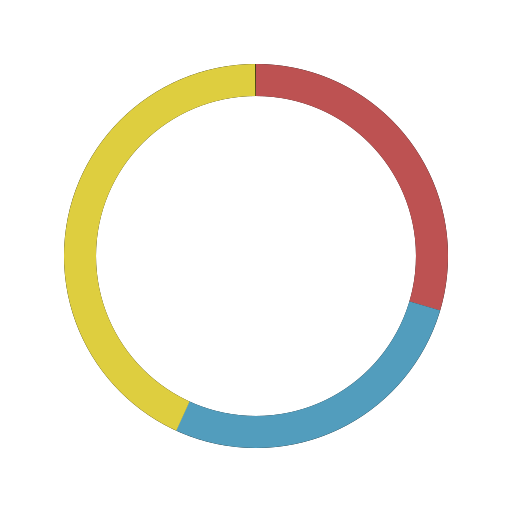
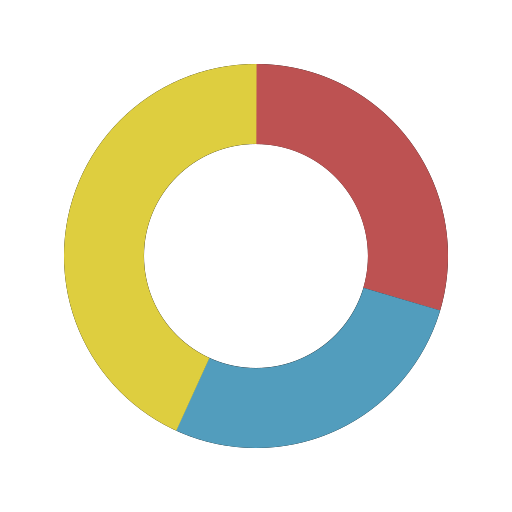
Deploying to gh-pages from @ Shresht7/Languages@cc778ebad2977a76cbf78eacf2a861cded7b94c6 🚀

Changed region(s): [[0.1875, 0.1875, 0.8125, 0.8125]]

diff --git a/assets/index.dca843ab.js b/assets/index.dca843ab.js
@@ -1,0 +1,1 @@
+var De=Object.defineProperty;var oe=Object.getOwnPropertySymbols;var Ee=Object.prototype.hasOwnProperty,Re=Object.prototype.propertyIsEnumerable;var se=(n,e,t)=>e in n?De(n,e,{enumerable:!0,configurable:!0,writable:!0,value:t}):n[e]=t,z=(n,e)=>{for(var t in e||(e={}))Ee.call(e,t)&&se(n,t,e[t]);if(oe)for(var t of oe(e))Re.call(e,t)&&se(n,t,e[t]);return n};import{S as P,i as M,s as D,c as pe,a as Y,e as _,b as ce,t as w,d as B,l as v,u as me,g as he,f as be,h as Te,j as m,k as S,m as F,n as ae,o as Se,p as d,q as R,w as _e,r as C,v as A,x as y,y as U,z as $e,A as Le,B as Ce,I as we,C as Ge,D as $,E as b,F as G,G as re,H as Oe,J as Ae,K as ye,L as te,M as Be,N as Ne,O as x,P as Fe,Q as W,R as K,T as V,U as Q,V as X,W as Ie}from"./vendor.5a57d869.js";const He=function(){const e=document.createElement("link").relList;if(e&&e.supports&&e.supports("modulepreload"))return;for(const s of document.querySelectorAll('link[rel="modulepreload"]'))o(s);new MutationObserver(s=>{for(const c of s)if(c.type==="childList")for(const a of c.addedNodes)a.tagName==="LINK"&&a.rel==="modulepreload"&&o(a)}).observe(document,{childList:!0,subtree:!0});function t(s){const c={};return s.integrity&&(c.integrity=s.integrity),s.referrerpolicy&&(c.referrerPolicy=s.referrerpolicy),s.crossorigin==="use-credentials"?c.credentials="include":s.crossorigin==="anonymous"?c.credentials="omit":c.credentials="same-origin",c}function o(s){if(s.ep)return;s.ep=!0;const c=t(s);fetch(s.href,c)}};He();function Je(n){let e,t,o,s;const c=n[2].default,a=pe(c,n,n[1],null);let l=[n[0]],r={};for(let i=0;i<l.length;i+=1)r=Y(r,l[i]);return{c(){e=_("button"),a&&a.c(),ce(e,r),w(e,"svelte-4190dx",!0)},m(i,f){B(i,e,f),a&&a.m(e,null),e.autofocus&&e.focus(),t=!0,o||(s=v(e,"click",n[3]),o=!0)},p(i,[f]){a&&a.p&&(!t||f&2)&&me(a,c,i,i[1],t?be(c,i[1],f,null):he(i[1]),null),ce(e,r=Te(l,[f&1&&i[0]])),w(e,"svelte-4190dx",!0)},i(i){t||(m(a,i),t=!0)},o(i){S(a,i),t=!1},d(i){i&&F(e),a&&a.d(i),o=!1,s()}}}function Ve(n,e,t){let{$$slots:o={},$$scope:s}=e;function c(a){Se.call(this,n,a)}return n.$$set=a=>{t(0,e=Y(Y({},e),ae(a))),"$$scope"in a&&t(1,s=a.$$scope)},e=ae(e),[e,s,o,c]}class ke extends P{constructor(e){super();M(this,e,Ve,Je,D,{})}}function Qe(n){let e,t;const o=n[3].default,s=pe(o,n,n[2],null);return{c(){e=_("div"),s&&s.c(),d(e,"class","svelte-pfjui3"),R(e,"width",n[0],!1),R(e,"height",n[0],!1),R(e,"color",n[1],!1)},m(c,a){B(c,e,a),s&&s.m(e,null),t=!0},p(c,[a]){s&&s.p&&(!t||a&4)&&me(s,o,c,c[2],t?be(o,c[2],a,null):he(c[2]),null),a&1&&R(e,"width",c[0],!1),a&1&&R(e,"height",c[0],!1),a&2&&R(e,"color",c[1],!1)},i(c){t||(m(s,c),t=!0)},o(c){S(s,c),t=!1},d(c){c&&F(e),s&&s.d(c)}}}function Xe(n,e,t){let{$$slots:o={},$$scope:s}=e,{size:c="1.5rem"}=e,{color:a=void 0}=e;return n.$$set=l=>{"size"in l&&t(0,c=l.size),"color"in l&&t(1,a=l.color),"$$scope"in l&&t(2,s=l.$$scope)},[c,a,s,o]}class ne extends P{constructor(e){super();M(this,e,Xe,Qe,D,{size:0,color:1})}}var H={"--clr-backdrop-light":"rgb(224, 224, 224)","--clr-backdrop-dark":"rgb(24, 24, 24)","--clr-background":"#F3F3F3","--clr-text":"#373737"};const Z={light:{backdrop:H["--clr-backdrop-light"],background:H["--clr-background"],text:H["--clr-text"]},dark:{backdrop:H["--clr-backdrop-dark"],background:H["--clr-text"],text:H["--clr-background"]}},je="#E8274B",We="#34EB6B",qe="#3AA2B5",Ue="#E6EFBB",ze="#9DC3FF",Ke="#5A8164",Ze="#1ac620",Ye="#882B0F",xe="#02f88c",et="#315665",tt="#64C800",nt="#C7D7DC",ot="#d12127",st="#1797c0",ct="#101F1F",at="#aa2afe",rt="#73a0c5",lt="#a957b0",it="#6E4C13",ft="#ff5a03",ut="#ff0000",dt="#9CC134",gt="#6594b9",pt="#1C3552",mt="#c30e9b",ht="#ff0000",bt="#FF5000",St="#C1F12E",_t="#a52f4e",Lt="#778899",Ct="#519aba",At="#6A463F",yt="#00bce4",Bt="#f7523f",Ft="#00FFAE",kt="#cd6400",vt="#12223c",Pt="#d4bec1",Mt="#c80fa0",Dt="#2F2530",Et="#662D91",Rt="#ffd539",Tt="#555555",$t="#00A300",wt="#DA3434",Gt="#F1A42B",Ot="#244776",Nt="#563d7c",It="#237346",Ht="#5886E1",Jt="#00007a",Vt="#ff4a48",Qt="#dfa535",Xt="#8dc63f",jt="#3f8000",Wt="#ccccff",qt="#db901e",Ut="#5546ff",zt="#3F85AF",Kt="#E4E6F3",Zt="#db5855",Yt="#140f46",xt="#244776",en="#ed2cd6",tn="#d0b68c",nn="#000100",on="#1a1a1a",sn="#3A4E3A",cn="#531242",an="#fedf5b",rn="#ba595e",ln="#447265",fn="#FFEC25",un="#00B4AB",dn="#003a52",gn="#FBEE96",pn="#dfafff",mn="#384d54",hn="#cca760",bn="#6c616e",Sn="#ccce35",_n="#8a1267",Ln="#001d9d",Cn="#a91e50",An="#a78649",yn="#2af0ff",Bn="#069406",Fn="#fff1f2",kn="#4d6977",vn="#6e4a7e",Pn="#60B5CC",Mn="#FFF4F3",Dn="#B83998",En="#FF790B",Rn="#88ccff",Tn="#636746",$n="#7b9db4",wn="#14253c",Gn="#c37240",On="#fff3d7",Nn="#ffcc33",In="#341708",Hn="#4d41b1",Jn="#867db1",Vn="#0050b2",Qn="#00cafe",Xn="#5f021f",jn="#FFC766",Wn="#f49a22",qn="#0000cc",Un="#355570",zn="#003058",Kn="#5686a5",Zn="#FF6800",Yn="#fb855d",xn="#951531",eo="#5B2063",to="#ffaff3",no="#c1ac7f",oo="#f0a9f0",so="#00ADD8",co="#88562A",ao="#82937f",ro="#615f8b",lo="#02303a",io="#e10098",fo="#4298b8",uo="#106da9",go="#aace60",po="#e34c26",mo="#005C9C",ho="#f68712",bo="#878787",So="#ece2a9",_o="#f7931e",Lo="#0e60e3",Co="#5e5086",Ao="#df7900",yo="#dce200",Bo="#ffefaf",Fo="#7790B2",ko="#a3522f",vo="#d1dbe0",Po="#b30000",Mo="#a9188d",Do="#078193",Eo="#FEFE00",Ro="#9EEDFF",To="#DBCA00",$o="#267CB9",wo="#0c479c",Go="#40d47e",Oo="#0886a5",No="#d03600",Io="#b07219",Ho="#f1e05a",Jo="#a52a22",Vo="#56b3cb",Qo="#843179",Xo="#0064bd",jo="#a270ba",Wo="#28430A",qo="#6f8042",Uo="#A97BFF",zo="#4C3023",Ko="#185619",Zo="#cc9900",Yo="#3d9970",xo="#fede06",es="#2980B9",ts="#999999",ns="#f2a542",os="#1d365d",ss="#DBCA00",cs="#9ccc7c",as="#67b8de",rs="#499886",ls="#295b9a",is="#652B81",fs="#000080",us="#e16737",ds="#00a6a6",gs="#5EC8DB",ps="#62A8D6",ms="#4A76B8",hs="#b7e1f4",bs="#d8ffff",Ss="#427819",_s="#7e858d",Ls="#083fa1",Cs="#42bff2",As="#f97732",ys="#dd1100",Bs="#c4a79c",Fs="#ff2b2b",ks="#007800",vs="#8f14e9",Ps="#ff1111",Ms="#02b046",Ds="#c7a938",Es="#de1d31",Rs="#ff4585",Ts="#fbb03b",$s="#724b3b",ws="#28431f",Gs="#111522",Os="#990000",Ns="#3d3c6e",Is="#0aa0ff",Hs="#ff6375",Js="#87AED7",Vs="#3ac486",Qs="#009639",Xs="#ffc200",js="#009917",Ws="#7e7eff",qs="#c9df40",Us="#9C8AF9",zs="#3d8137",Ks="#3be133",Zs="#424893",Ys="#60AFFE",xs="#cabbff",ec="#f7ede0",tc="#ed2e2d",nc="#AA70FF",oc="#e5cd45",sc="#77aa99",cc="#cdd0e3",ac="#fab738",rc="#7055b5",lc="#4F5D95",ic="#dad8d8",fc="#336790",uc="#cc0000",dc="#6600cc",gc="#f3ca0a",pc="#E3F171",mc="#dbb284",hc="#C76F5B",bc="#0298c3",Sc="#6067af",_c="#fcd7de",Lc="#005390",Cc="#d80074",Ac="#dc3a0c",yc="#da291c",Bc="#8f0f8d",Fc="#012456",kc="#0c344b",vc="#0096D8",Pc="#3B2F63",Mc="#74283c",Dc="#de0000",Ec="#a86454",Rc="#302B6D",Tc="#5a6986",$c="#1D222D",wc="#3572A5",Gc="#44a51c",Oc="#882233",Nc="#198CE7",Ic="#77d9fb",Hc="#701516",Jc="#d90e09",Vc="#198ce7",Qc="#2BDE21",Xc="#665a4e",jc="#3c5caa",Wc="#9d5200",qc="#0000fb",Uc="#fffaa0",zc="#ed5051",Kc="#ff5847",Zc="#358a5b",Yc="#f50000",xc="#2D54CB",ea="#A71E49",ta="#00c0b5",na="#ecdebe",oa="#cc0088",sa="#701516",ca="#dea584",aa="#B34936",ra="#c6538c",la="#0C4597",ia="#3F3F3F",fa="#e38c00",ua="#e38c00",da="#ff9900",ga="#646464",pa="#a53b70",ma="#c22d40",ha="#bd181a",ba="#1e4aec",Sa="#ca0f21",_a="#0579aa",La="#222c37",Ca="#89e051",Aa="#120F14",ya="#64E6AD",Ba="#007eff",Fa="#003fa2",ka="#2b2b2b",va="#c94949",Pa="#596706",Ma="#f0c040",Da="#AA6746",Ea="#f69e1d",Ra="#800000",Ta="#b2011d",$a="#76d275",wa="#1a5f91",Ga="#3fb34f",Oa="#ff6347",Na="#2fcc9f",Ia="#46390b",Ha="#ff3e00",Ja="#F05138",Va="#DAE1C2",Qa="#4b0079",Xa="#9c4221",ja="#e38c00",Wa="#237346",qa="#2b7489",Ua="#0178b8",za="#e4cc98",Ka="#3D6117",Za="#00004c",Ya="#ffe7ac",xa="#D12127",er="#cf142b",tr="#c1d026",nr="#2b7489",or="#9933cc",sr="#a54c4d",cr="#ccccee",ar="#4f87c4",rr="#867db1",lr="#15dcdc",ir="#148AA8",fr="#adb2cb",ur="#fbe5cd",dr="#b2b7f8",gr="#1F1F1F",pr="#41b883",mr="#2980b9",hr="#04133b",br="#fc5757",Sr="#a23738",_r="#4B6BEF",Lr="#99DA07",Cr="#0060ac",Ar="#5232e7",yr="#EB8CEB",Br="#81bd41",Fr="#285EEF",kr="#24255d",vr="#cb171e",Pr="#220000",Mr="#32AB90",Dr="#4B6C4B",Er="#0d665e",Rr="#dc75e5",Tr="#00BCD1",$r="#118f9e",wr="#ec915c",Gr="#d67711",Or="#913960",Nr="#4aae47",Ir="#00b171",Hr="#c7254e",Jr="#1da6e0",Vr="#E22837",Qr="#244963",Xr="#2d004d",jr="#94B0C7",Wr="#b0b77e",qr="#0040cd",Ur="#141414",zr="#64b970",Kr="#42f1f4",Zr="#7582D1",Yr="#403a40";var xr={"1C Enterprise":"#814CCC","2-Dimensional Array":"#38761D","4D":"#004289",ABAP:je,"ABAP CDS":"#555e25","AGS Script":"#B9D9FF",AIDL:We,AL:qe,AMPL:Ue,ANTLR:ze,"API Blueprint":"#2ACCA8",APL:Ke,"ASP.NET":"#9400ff",ATS:Ze,ActionScript:Ye,Ada:xe,"Adobe Font Metrics":"#fa0f00",Agda:et,Alloy:tt,"Alpine Abuild":"#0D597F","Altium Designer":"#A89663",AngelScript:nt,"Ant Build System":"#A9157E",ApacheConf:ot,Apex:st,"Apollo Guidance Computer":"#0B3D91",AppleScript:ct,Arc:at,AsciiDoc:rt,AspectJ:lt,Assembly:it,Astro:ft,Asymptote:ut,Augeas:dt,AutoHotkey:gt,AutoIt:pt,"Avro IDL":"#0040FF",Awk:mt,BASIC:ht,Ballerina:bt,Batchfile:St,Beef:_t,BibTeX:Lt,Bicep:Ct,Bison:At,BitBake:yt,Blade:Bt,BlitzBasic:Ft,BlitzMax:kt,Bluespec:vt,Boo:Pt,Boogie:Mt,Brainfuck:Dt,Brightscript:Et,Browserslist:Rt,C:Tt,"C#":"#178600","C++":"#f34b7d",CLIPS:$t,CMake:wt,COLLADA:Gt,CSON:Ot,CSS:Nt,CSV:It,CUE:Ht,CWeb:Jt,"Cabal Config":"#483465",Cairo:Vt,"Cap'n Proto":"#c42727",Ceylon:Qt,Chapel:Xt,ChucK:jt,Cirru:Wt,Clarion:qt,Clarity:Ut,"Classic ASP":"#6a40fd",Clean:zt,Click:Kt,Clojure:Zt,"Closure Templates":"#0d948f","Cloud Firestore Security Rules":"#FFA000",CodeQL:Yt,CoffeeScript:xt,ColdFusion:en,"ColdFusion CFC":"#ed2cd6","Common Lisp":"#3fb68b","Common Workflow Language":"#B5314C","Component Pascal":"#B0CE4E",Coq:tn,Crystal:nn,Csound:on,"Csound Document":"#1a1a1a","Csound Score":"#1a1a1a",Cuda:sn,Curry:cn,Cython:an,D:rn,DM:ln,Dafny:fn,"Darcs Patch":"#8eff23",Dart:un,DataWeave:dn,"Debian Package Control File":"#D70751",DenizenScript:gn,Dhall:pn,"DirectX 3D File":"#aace60",Dockerfile:mn,Dogescript:hn,Dylan:bn,E:Sn,ECL:_n,ECLiPSe:Ln,EJS:Cn,EQ:An,Earthly:yn,Easybuild:Bn,"Ecere Projects":"#913960",EditorConfig:Fn,Eiffel:kn,Elixir:vn,Elm:Pn,"Emacs Lisp":"#c065db",EmberScript:Mn,Erlang:Dn,Euphoria:En,"F#":"#b845fc","F*":"#572e30","FIGlet Font":"#FFDDBB",FLUX:Rn,Factor:Tn,Fancy:$n,Fantom:wn,Faust:Gn,Fennel:On,"Filebench WML":"#F6B900",Fluent:Nn,Forth:In,Fortran:Hn,"Fortran Free Form":"#4d41b1",FreeBasic:Jn,FreeMarker:Vn,Frege:Qn,Futhark:Xn,"G-code":"#D08CF2",GAML:jn,GAMS:Wn,GAP:qn,"GCC Machine Description":"#FFCFAB",GDScript:Un,GEDCOM:zn,GLSL:Kn,GSC:Zn,"Game Maker Language":"#71b417","Gemfile.lock":"#701516",Genie:Yn,Genshi:xn,"Gentoo Ebuild":"#9400ff","Gentoo Eclass":"#9400ff","Gerber Image":"#d20b00",Gherkin:eo,"Git Attributes":"#F44D27","Git Config":"#F44D27",Gleam:to,Glyph:no,Gnuplot:oo,Go:so,"Go Checksums":"#00ADD8","Go Module":"#00ADD8",Golo:co,Gosu:ao,Grace:ro,Gradle:lo,"Grammatical Framework":"#ff0000",GraphQL:io,"Graphviz (DOT)":"#2596be",Groovy:fo,"Groovy Server Pages":"#4298b8",HAProxy:uo,HLSL:go,HTML:po,"HTML+ECR":"#2e1052","HTML+EEX":"#6e4a7e","HTML+ERB":"#701516","HTML+PHP":"#4f5d95","HTML+Razor":"#512be4",HTTP:mo,HXML:ho,Hack:bo,Haml:So,Handlebars:_o,Harbour:Lo,Haskell:Co,Haxe:Ao,HiveQL:yo,HolyC:Bo,Hy:Fo,IDL:ko,"IGOR Pro":"#0000cc",INI:vo,Idris:Po,"Ignore List":"#000000","ImageJ Macro":"#99AAFF","Inno Setup":"#264b99",Io:Mo,Ioke:Do,Isabelle:Eo,"Isabelle ROOT":"#FEFE00",J:Ro,"JAR Manifest":"#b07219",JFlex:To,JSON:"#292929","JSON with Comments":"#292929",JSON5:$o,JSONLD:wo,JSONiq:Go,Janet:Oo,Jasmin:No,Java:Io,"Java Properties":"#2A6277","Java Server Pages":"#2A6277",JavaScript:Ho,"JavaScript+ERB":"#f1e05a","Jest Snapshot":"#15c213",Jinja:Jo,Jison:Vo,"Jison Lex":"#56b3cb",Jolie:Qo,Jsonnet:Xo,Julia:jo,"Jupyter Notebook":"#DA5B0B",KRL:Wo,"Kaitai Struct":"#773b37",KakouneScript:qo,"KiCad Layout":"#2f4aab","KiCad Legacy Layout":"#2f4aab","KiCad Schematic":"#2f4aab",Kotlin:Uo,LFE:zo,LLVM:Ko,LOLCODE:Zo,LSL:Yo,LabVIEW:xo,Lark:es,Lasso:ts,Latte:ns,Less:os,Lex:ss,LilyPond:cs,Liquid:as,"Literate Agda":"#315665","Literate CoffeeScript":"#244776","Literate Haskell":"#5e5086",LiveScript:rs,Logtalk:ls,LookML:is,Lua:fs,MATLAB:us,MAXScript:ds,MLIR:gs,MQL4:ps,MQL5:ms,MTML:hs,Macaulay2:bs,Makefile:Ss,Mako:_s,Markdown:Ls,Marko:Cs,Mask:As,Mathematica:ys,Max:Bs,Mercury:Fs,Meson:ks,Metal:vs,MiniYAML:Ps,Mint:Ms,Mirah:Ds,Modelica:Es,"Modula-2":"#10253f","Modula-3":"#223388",MoonScript:Rs,Motoko:Ts,"Motorola 68K Assembly":"#005daa",Mustache:$s,NCL:ws,"NPM Config":"#cb3837",NWScript:Gs,Nearley:Os,Nemerle:Ns,NetLinx:Is,"NetLinx+ERB":"#747faa",NetLogo:Hs,NewLisp:Js,Nextflow:Vs,Nginx:Qs,Nim:Xs,Nit:js,Nix:Ws,Nu:qs,NumPy:Us,Nunjucks:zs,OCaml:Ks,ObjectScript:Zs,"Objective-C":"#438eff","Objective-C++":"#6866fb","Objective-J":"#ff0c5a",Odin:Ys,Omgrofl:xs,Opal:ec,"Open Policy Agent":"#7d9199",OpenCL:tc,"OpenEdge ABL":"#5ce600",OpenQASM:nc,OpenSCAD:oc,Org:sc,Oxygene:cc,Oz:ac,P4:rc,"PEG.js":"#234d6b",PHP:lc,PLSQL:ic,PLpgSQL:fc,"POV-Ray SDL":"#6bac65",Pan:uc,Papyrus:dc,Parrot:gc,Pascal:pc,Pawn:mc,Pep8:hc,Perl:bc,PicoLisp:Sc,PigLatin:_c,Pike:Lc,PogoScript:Cc,PostCSS:Ac,PostScript:yc,PowerBuilder:Bc,PowerShell:Fc,Prisma:kc,Processing:vc,Procfile:Pc,Prolog:Mc,Promela:Dc,"Propeller Spin":"#7fa2a7",Pug:Ec,Puppet:Rc,PureBasic:Tc,PureScript:$c,Python:wc,"Python console":"#3572A5","Python traceback":"#3572A5","Q#":"#fed659",QML:Gc,"Qt Script":"#00b841",Quake:Oc,R:Nc,RAML:Ic,RDoc:Hc,REXX:Jc,RMarkdown:Vc,RPGLE:Qc,RUNOFF:Xc,Racket:jc,Ragel:Wc,Raku:qc,Rascal:Uc,ReScript:zc,Reason:Kc,Rebol:Zc,"Record Jar":"#0673ba",Red:Yc,"Regular Expression":"#009a00","Ren'Py":"#ff7f7f",Ring:xc,Riot:ea,RobotFramework:ta,Roff:na,"Roff Manpage":"#ecdebe",Rouge:oa,Ruby:sa,Rust:ca,SAS:aa,SCSS:ra,SPARQL:la,SQF:ia,SQL:fa,SQLPL:ua,"SRecode Template":"#348a34",SVG:da,SaltStack:ga,Sass:pa,Scala:ma,Scaml:ha,Scheme:ba,Scilab:Sa,Self:_a,ShaderLab:La,Shell:Ca,"ShellCheck Config":"#cecfcb",Shen:Aa,Singularity:ya,Slash:Ba,Slice:Fa,Slim:ka,SmPL:va,Smalltalk:Pa,Smarty:Ma,Solidity:Da,SourcePawn:Ea,Squirrel:Ra,Stan:Ta,"Standard ML":"#dc566d",Starlark:$a,Stata:wa,StringTemplate:Ga,Stylus:Oa,"SubRip Text":"#9e0101",SugarSS:Na,SuperCollider:Ia,Svelte:Ha,Swift:Ja,SystemVerilog:Va,"TI Program":"#A0AA87",TLA:Qa,TOML:Xa,TSQL:ja,TSV:Wa,TSX:qa,TXL:Ua,Tcl:za,TeX:Ka,Terra:Za,"TextMate Properties":"#df66e4",Textile:Ya,Thrift:xa,Turing:er,Twig:tr,TypeScript:nr,"Unified Parallel C":"#4e3617","Unity3D Asset":"#222c37",Uno:or,UnrealScript:sr,UrWeb:cr,V:ar,VBA:rr,VBScript:lr,VCL:ir,VHDL:fr,Vala:ur,"Valve Data Format":"#f26025",Verilog:dr,"Vim Help File":"#199f4b","Vim Script":"#199f4b","Vim Snippet":"#199f4b","Visual Basic .NET":"#945db7",Volt:gr,Vue:pr,Vyper:mr,"Web Ontology Language":"#5b70bd",WebAssembly:hr,Wikitext:br,"Windows Registry Entries":"#52d5ff","Witcher Script":"#ff0000",Wollok:Sr,"World of Warcraft Addon Data":"#f7e43f",X10:_r,XC:Lr,XML:Cr,"XML Property List":"#0060ac",XQuery:Ar,XSLT:yr,Xojo:Br,Xonsh:Fr,Xtend:kr,YAML:vr,YARA:Pr,YASnippet:Mr,Yacc:Dr,ZAP:Er,ZIL:Rr,ZenScript:Tr,Zephir:$r,Zig:wr,Zimpl:Gr,eC:Or,fish:Nr,hoon:Ir,jq:Hr,kvlang:Jr,"mIRC Script":"#3d57c3",mcfunction:Vr,mupad:Qr,nanorc:Xr,nesC:jr,ooc:Wr,q:qr,reStructuredText:Ur,sed:zr,wdl:Kr,wisp:Zr,xBase:Yr};const q=n=>{var e;return(e=xr[n])!=null?e:"black"},ee=n=>n*100,le=n=>ee(n).toFixed(2)+"%",el=()=>window.matchMedia("(prefers-color-scheme: dark)").matches,ve="color-theme";function tl(){switch(localStorage.getItem(ve)){case"light":return"light";case"dark":return"dark";default:return el()?"dark":"light"}}function nl(){let n=tl();const e=l=>l in Z?Z[l]:Z[n],t=()=>n,{subscribe:o,update:s}=_e(e(n));function c(){n=n==="light"?"dark":"light",s(l=>z(z({},l),e(n))),a(e(n)),localStorage.setItem(ve,n)}const a=l=>{for(const[r,i]of Object.entries(l)){const f=`--clr-${r}`;document.documentElement.style.setProperty(f,i)}};return{subscribe:o,getCurrentTheme:t,toggle:c,setRootColors:a}}var j=nl();function ol(n){let e,t;return e=new ne({props:{$$slots:{default:[cl]},$$scope:{ctx:n}}}),{c(){C(e.$$.fragment)},m(o,s){A(e,o,s),t=!0},i(o){t||(m(e.$$.fragment,o),t=!0)},o(o){S(e.$$.fragment,o),t=!1},d(o){y(e,o)}}}function sl(n){let e,t;return e=new ne({props:{$$slots:{default:[al]},$$scope:{ctx:n}}}),{c(){C(e.$$.fragment)},m(o,s){A(e,o,s),t=!0},i(o){t||(m(e.$$.fragment,o),t=!0)},o(o){S(e.$$.fragment,o),t=!1},d(o){y(e,o)}}}function cl(n){let e,t;return e=new we({}),{c(){C(e.$$.fragment)},m(o,s){A(e,o,s),t=!0},i(o){t||(m(e.$$.fragment,o),t=!0)},o(o){S(e.$$.fragment,o),t=!1},d(o){y(e,o)}}}function al(n){let e,t;return e=new Ge({}),{c(){C(e.$$.fragment)},m(o,s){A(e,o,s),t=!0},i(o){t||(m(e.$$.fragment,o),t=!0)},o(o){S(e.$$.fragment,o),t=!1},d(o){y(e,o)}}}function rl(n){let e,t,o,s;const c=[sl,ol],a=[];function l(r,i){return r[0]==="light"?0:1}return e=l(n),t=a[e]=c[e](n),{c(){t.c(),o=$e()},m(r,i){a[e].m(r,i),B(r,o,i),s=!0},p(r,i){let f=e;e=l(r),e!==f&&(Le(),S(a[f],1,1,()=>{a[f]=null}),Ce(),t=a[e],t||(t=a[e]=c[e](r),t.c()),m(t,1),t.m(o.parentNode,o))},i(r){s||(m(t),s=!0)},o(r){S(t),s=!1},d(r){a[e].d(r),r&&F(o)}}}function ll(n){let e,t;return e=new ke({props:{style:"padding: 0.5rem;",$$slots:{default:[rl]},$$scope:{ctx:n}}}),e.$on("click",n[2]),{c(){C(e.$$.fragment)},m(o,s){A(e,o,s),t=!0},p(o,[s]){const c={};s&9&&(c.$$scope={dirty:s,ctx:o}),e.$set(c)},i(o){t||(m(e.$$.fragment,o),t=!0)},o(o){S(e.$$.fragment,o),t=!1},d(o){y(e,o)}}}function il(n,e,t){let o;U(n,j,a=>t(1,o=a));let s="light";const c=()=>j.toggle();return n.$$.update=()=>{n.$$.dirty&2&&t(0,s=o?j.getCurrentTheme():"light")},[s,o,c]}class fl extends P{constructor(e){super();M(this,e,il,ll,D,{})}}function ul(n){let e,t,o,s,c,a;return c=new fl({}),{c(){e=_("header"),t=_("h1"),t.textContent="Languages",o=$(),s=_("div"),C(c.$$.fragment),d(s,"class","svelte-g11jc"),d(e,"class","svelte-g11jc")},m(l,r){B(l,e,r),b(e,t),b(e,o),b(e,s),A(c,s,null),a=!0},p:G,i(l){a||(m(c.$$.fragment,l),a=!0)},o(l){S(c.$$.fragment,l),a=!1},d(l){l&&F(e),y(c)}}}class dl extends P{constructor(e){super();M(this,e,null,ul,D,{})}}function gl(n){let e,t;return e=new Ne({}),{c(){C(e.$$.fragment)},m(o,s){A(e,o,s),t=!0},i(o){t||(m(e.$$.fragment,o),t=!0)},o(o){S(e.$$.fragment,o),t=!1},d(o){y(e,o)}}}function pl(n){let e,t;return e=new ne({props:{$$slots:{default:[gl]},$$scope:{ctx:n}}}),{c(){C(e.$$.fragment)},m(o,s){A(e,o,s),t=!0},p(o,s){const c={};s&8&&(c.$$scope={dirty:s,ctx:o}),e.$set(c)},i(o){t||(m(e.$$.fragment,o),t=!0)},o(o){S(e.$$.fragment,o),t=!1},d(o){y(e,o)}}}function ml(n){let e,t,o,s,c,a,l,r,i;return c=new ke({props:{type:"submit",style:"padding: 0.5rem;",$$slots:{default:[pl]},$$scope:{ctx:n}}}),{c(){e=_("div"),t=_("form"),o=_("input"),s=$(),C(c.$$.fragment),d(o,"placeholder","username"),d(o,"class","svelte-frixhr"),d(t,"class","svelte-frixhr"),d(e,"class","svelte-frixhr")},m(f,h){B(f,e,h),b(e,t),b(t,o),re(o,n[0]),b(t,s),A(c,t,null),l=!0,r||(i=[v(o,"input",n[2]),v(t,"submit",Oe(n[1]))],r=!0)},p(f,[h]){h&1&&o.value!==f[0]&&re(o,f[0]);const p={};h&8&&(p.$$scope={dirty:h,ctx:f}),c.$set(p)},i(f){l||(m(c.$$.fragment,f),a||Ae(()=>{a=ye(e,Be,{y:50,duration:500,opacity:0}),a.start()}),l=!0)},o(f){S(c.$$.fragment,f),l=!1},d(f){f&&F(e),y(c),r=!1,te(i)}}}function hl(n,e,t){let{value:o=""}=e;function s(a){Se.call(this,n,a)}function c(){o=this.value,t(0,o)}return n.$$set=a=>{"value"in a&&t(0,o=a.value)},[o,s,c]}class bl extends P{constructor(e){super();M(this,e,hl,ml,D,{value:0})}}const J=_e();function Sl(n){let e,t,o,s,c,a,l;return{c(){e=x("circle"),d(e,"r","15.91549430918954"),d(e,"cx","21"),d(e,"cy","21"),d(e,"fill","transparent"),d(e,"class","transitional svelte-10tf4rn"),d(e,"stroke",t=q(n[0])),d(e,"stroke-width",o=n[3]===n[0]?"5":"3"),d(e,"stroke-dasharray",s=`${n[1]} ${100-n[1]}`),d(e,"stroke-dashoffset",c=`${100-n[2]}`),d(e,"transform","rotate(-90) translate(-42)"),w(e,"fade",n[3]&&n[3]!==n[0])},m(r,i){B(r,e,i),a||(l=[v(e,"mouseover",n[9]),v(e,"focus",n[10]),v(e,"mouseout",n[11]),v(e,"blur",n[12])],a=!0)},p(r,[i]){i&1&&t!==(t=q(r[0]))&&d(e,"stroke",t),i&9&&o!==(o=r[3]===r[0]?"5":"3")&&d(e,"stroke-width",o),i&2&&s!==(s=`${r[1]} ${100-r[1]}`)&&d(e,"stroke-dasharray",s),i&4&&c!==(c=`${100-r[2]}`)&&d(e,"stroke-dashoffset",c),i&9&&w(e,"fade",r[3]&&r[3]!==r[0])},i:G,o:G,d(r){r&&F(e),a=!1,te(l)}}}function _l(n,e,t){let o;U(n,J,u=>t(3,o=u));const s=u=>J.set(u),c=()=>J.set(null);let{language:a=""}=e,{bytes:l=0}=e,{cumulativeBytes:r=0}=e,{totalBytes:i=1}=e,f=0,h=0;const p=()=>s(a),g=()=>s(a),L=()=>c(),k=()=>c();return n.$$set=u=>{"language"in u&&t(0,a=u.language),"bytes"in u&&t(6,l=u.bytes),"cumulativeBytes"in u&&t(7,r=u.cumulativeBytes),"totalBytes"in u&&t(8,i=u.totalBytes)},n.$$.update=()=>{n.$$.dirty&320&&t(1,f=ee(l/i)),n.$$.dirty&384&&t(2,h=ee(r/i))},[a,f,h,o,s,c,l,r,i,p,g,L,k]}class Ll extends P{constructor(e){super();M(this,e,_l,Sl,D,{language:0,bytes:6,cumulativeBytes:7,totalBytes:8})}}function ie(n,e,t){const o=n.slice();return o[3]=e[t][0],o[4]=e[t][1],o[6]=t,o}function fe(n){let e,t;function o(...s){return n[2](n[6],...s)}return e=new Ll({props:{language:n[3],bytes:n[4],totalBytes:n[1],cumulativeBytes:n[0].filter(o).reduce(ue,0)}}),{c(){C(e.$$.fragment)},m(s,c){A(e,s,c),t=!0},p(s,c){n=s;const a={};c&1&&(a.language=n[3]),c&1&&(a.bytes=n[4]),c&2&&(a.totalBytes=n[1]),c&1&&(a.cumulativeBytes=n[0].filter(o).reduce(ue,0)),e.$set(a)},i(s){t||(m(e.$$.fragment,s),t=!0)},o(s){S(e.$$.fragment,s),t=!1},d(s){y(e,s)}}}function Cl(n){let e,t,o,s,c=n[0],a=[];for(let r=0;r<c.length;r+=1)a[r]=fe(ie(n,c,r));const l=r=>S(a[r],1,1,()=>{a[r]=null});return{c(){e=_("div"),t=x("svg"),o=x("circle");for(let r=0;r<a.length;r+=1)a[r].c();d(o,"r","21"),d(o,"cx","21"),d(o,"cy","21"),d(o,"fill","transparent"),d(t,"height","42"),d(t,"width","42"),d(t,"viewBox","0 0 42 42"),d(t,"xmlns","http://www.w3.org/2000/svg"),d(t,"class","svelte-1ln4cpg"),d(e,"class","svelte-1ln4cpg")},m(r,i){B(r,e,i),b(e,t),b(t,o);for(let f=0;f<a.length;f+=1)a[f].m(t,null);s=!0},p(r,[i]){if(i&3){c=r[0];let f;for(f=0;f<c.length;f+=1){const h=ie(r,c,f);a[f]?(a[f].p(h,i),m(a[f],1)):(a[f]=fe(h),a[f].c(),m(a[f],1),a[f].m(t,null))}for(Le(),f=c.length;f<a.length;f+=1)l(f);Ce()}},i(r){if(!s){for(let i=0;i<c.length;i+=1)m(a[i]);s=!0}},o(r){a=a.filter(Boolean);for(let i=0;i<a.length;i+=1)S(a[i]);s=!1},d(r){r&&F(e),Fe(a,r)}}}const ue=(n,e)=>n+e[1];function Al(n,e,t){let{languages:o=[]}=e,{totalBytes:s=1}=e;const c=(a,l,r)=>r<a;return n.$$set=a=>{"languages"in a&&t(0,o=a.languages),"totalBytes"in a&&t(1,s=a.totalBytes)},[o,s,c]}class yl extends P{constructor(e){super();M(this,e,Al,Cl,D,{languages:0,totalBytes:1})}}function de(n,e,t){const o=n.slice();return o[9]=e[t][0],o[10]=e[t][1],o[12]=t,o}function ge(n){let e,t,o,s=n[9]+"",c,a,l,r=n[10].toLocaleString("en-US")+"",i,f,h,p,g,L=le(n[10]/n[1])+"",k,u,E,O,N;function Pe(){return n[5](n[9])}function Me(){return n[6](n[9])}return{c(){e=_("li"),t=_("div"),o=_("p"),c=W(s),a=$(),l=_("p"),i=W(r),f=W(" bytes"),h=$(),p=_("div"),g=_("p"),k=W(L),u=$(),d(o,"class","language"),d(l,"class","bytes svelte-1ssghu3"),d(g,"class","percentage"),d(e,"class","svelte-1ssghu3"),w(e,"highlighted",n[2]===n[9]),w(e,"fade",n[2]&&n[2]!==n[9]),R(e,"--clr",q(n[9]),!1),R(e,"width",n[0].length>7?"15rem":"100%",!1)},m(I,T){B(I,e,T),b(e,t),b(t,o),b(o,c),b(t,a),b(t,l),b(l,i),b(l,f),b(e,h),b(e,p),b(p,g),b(g,k),b(e,u),O||(N=[v(e,"mouseover",Pe),v(e,"focus",Me),v(e,"mouseout",n[7]),v(e,"blur",n[8])],O=!0)},p(I,T){n=I,T&1&&s!==(s=n[9]+"")&&K(c,s),T&1&&r!==(r=n[10].toLocaleString("en-US")+"")&&K(i,r),T&3&&L!==(L=le(n[10]/n[1])+"")&&K(k,L),T&5&&w(e,"highlighted",n[2]===n[9]),T&5&&w(e,"fade",n[2]&&n[2]!==n[9]),T&1&&R(e,"--clr",q(n[9]),!1),T&1&&R(e,"width",n[0].length>7?"15rem":"100%",!1)},i(I){E||Ae(()=>{E=ye(e,Be,{y:200,duration:250,delay:75+75*n[12]}),E.start()})},o:G,d(I){I&&F(e),O=!1,te(N)}}}function Bl(n){let e,t,o=n[0],s=[];for(let c=0;c<o.length;c+=1)s[c]=ge(de(n,o,c));return{c(){e=_("div"),t=_("ol");for(let c=0;c<s.length;c+=1)s[c].c();d(t,"class","svelte-1ssghu3"),d(e,"id","list"),d(e,"class","svelte-1ssghu3")},m(c,a){B(c,e,a),b(e,t);for(let l=0;l<s.length;l+=1)s[l].m(t,null)},p(c,[a]){if(a&31){o=c[0];let l;for(l=0;l<o.length;l+=1){const r=de(c,o,l);s[l]?(s[l].p(r,a),m(s[l],1)):(s[l]=ge(r),s[l].c(),m(s[l],1),s[l].m(t,null))}for(;l<s.length;l+=1)s[l].d(1);s.length=o.length}},i(c){for(let a=0;a<o.length;a+=1)m(s[a])},o:G,d(c){c&&F(e),Fe(s,c)}}}function Fl(n,e,t){let o;U(n,J,p=>t(2,o=p));let{languages:s=[]}=e,{totalBytes:c=1}=e;const a=p=>J.set(p),l=()=>J.set(null),r=p=>a(p),i=p=>a(p),f=()=>l(),h=()=>l();return n.$$set=p=>{"languages"in p&&t(0,s=p.languages),"totalBytes"in p&&t(1,c=p.totalBytes)},[s,c,o,a,l,r,i,f,h]}class kl extends P{constructor(e){super();M(this,e,Fl,Bl,D,{languages:0,totalBytes:1})}}function vl(n){let e,t,o,s,c,a,l,r,i;function f(u){n[3](u)}function h(u){n[4](u)}let p={};n[0]!==void 0&&(p.languages=n[0]),n[1]!==void 0&&(p.totalBytes=n[1]),t=new yl({props:p}),V.push(()=>Q(t,"languages",f)),V.push(()=>Q(t,"totalBytes",h));function g(u){n[5](u)}function L(u){n[6](u)}let k={};return n[0]!==void 0&&(k.languages=n[0]),n[1]!==void 0&&(k.totalBytes=n[1]),a=new kl({props:k}),V.push(()=>Q(a,"languages",g)),V.push(()=>Q(a,"totalBytes",L)),{c(){e=_("section"),C(t.$$.fragment),c=$(),C(a.$$.fragment),d(e,"class","svelte-3i41eo")},m(u,E){B(u,e,E),A(t,e,null),b(e,c),A(a,e,null),i=!0},p(u,[E]){const O={};!o&&E&1&&(o=!0,O.languages=u[0],X(()=>o=!1)),!s&&E&2&&(s=!0,O.totalBytes=u[1],X(()=>s=!1)),t.$set(O);const N={};!l&&E&1&&(l=!0,N.languages=u[0],X(()=>l=!1)),!r&&E&2&&(r=!0,N.totalBytes=u[1],X(()=>r=!1)),a.$set(N)},i(u){i||(m(t.$$.fragment,u),m(a.$$.fragment,u),i=!0)},o(u){S(t.$$.fragment,u),S(a.$$.fragment,u),i=!1},d(u){u&&F(e),y(t),y(a)}}}function Pl(n,e,t){let{data:o={}}=e,s=[],c=1;function a(f){s=f,t(0,s),t(2,o)}function l(f){c=f,t(1,c),t(0,s),t(2,o)}function r(f){s=f,t(0,s),t(2,o)}function i(f){c=f,t(1,c),t(0,s),t(2,o)}return n.$$set=f=>{"data"in f&&t(2,o=f.data)},n.$$.update=()=>{n.$$.dirty&4&&t(0,s=Object.entries(o).sort((f,h)=>h[1]-f[1])),n.$$.dirty&1&&t(1,c=s.reduce((f,[h,p])=>f+p,0))},[s,c,o,a,l,r,i]}class Ml extends P{constructor(e){super();M(this,e,Pl,vl,D,{data:2})}}function Dl(n){let e;return{c(){e=_("footer"),e.innerHTML='<a href="https://www.github.com/Shresht7/Languages">View Source Code</a>',d(e,"class","svelte-151q23h")},m(t,o){B(t,e,o)},p:G,i:G,o:G,d(t){t&&F(e)}}}class El extends P{constructor(e){super();M(this,e,null,Dl,D,{})}}function Rl(n){return fetch(`https://api.github.com/users/${n}/repos`).then(e=>e.json()).then(e=>e.map(t=>t.name)).catch(e=>console.error(e))}function Tl(n,e){return fetch(`https://api.github.com/repos/${n}/${e}/languages`).then(t=>t.json()).catch(t=>console.error(t))}async function $l(...n){const e={};for(const t of n)for(const o of await Rl(t)){const s=await Tl(t,o);for(const[c,a]of Object.entries(s))e[c]||(e[c]=0),e[c]+=a}return e}const wl=181238,Gl=27302,Ol=6708,Nl=189,Il=109445,Hl=34072,Jl=36350;var Vl={TypeScript:wl,JavaScript:Gl,HTML:Ol,CSS:Nl,Go:Il,Rust:Hl,Svelte:Jl};function Ql(n){let e,t,o,s,c,a,l,r,i,f;e=new dl({});function h(g){n[3](g)}let p={};return n[1]!==void 0&&(p.value=n[1]),s=new bl({props:p}),V.push(()=>Q(s,"value",h)),s.$on("submit",n[2]),l=new Ml({props:{data:n[0]}}),i=new El({}),{c(){C(e.$$.fragment),t=$(),o=_("main"),C(s.$$.fragment),a=$(),C(l.$$.fragment),r=$(),C(i.$$.fragment),d(o,"class","svelte-3q4qnh")},m(g,L){A(e,g,L),B(g,t,L),B(g,o,L),A(s,o,null),b(o,a),A(l,o,null),B(g,r,L),A(i,g,L),f=!0},p(g,[L]){const k={};!c&&L&2&&(c=!0,k.value=g[1],X(()=>c=!1)),s.$set(k);const u={};L&1&&(u.data=g[0]),l.$set(u)},i(g){f||(m(e.$$.fragment,g),m(s.$$.fragment,g),m(l.$$.fragment,g),m(i.$$.fragment,g),f=!0)},o(g){S(e.$$.fragment,g),S(s.$$.fragment,g),S(l.$$.fragment,g),S(i.$$.fragment,g),f=!1},d(g){y(e,g),g&&F(t),g&&F(o),y(s),y(l),g&&F(r),y(i,g)}}}function Xl(n,e,t){let o;U(n,j,r=>t(4,o=r)),Ie(()=>{j.setRootColors(o)});let s=Vl,c="";async function a(){!c||t(0,s=await $l(c))}function l(r){c=r,t(1,c)}return[s,c,a,l]}class jl extends P{constructor(e){super();M(this,e,Xl,Ql,D,{})}}new jl({target:document.getElementById("app"),intro:!0});

diff --git a/assets/index.98fed811.css b/assets/index.98fed811.css
@@ -1,0 +1,1 @@
+@import"https://fonts.googleapis.com/css2?family=Share+Tech+Mono&display=swap";button.svelte-4190dx{display:flex;flex-direction:row;justify-content:space-evenly;align-items:center;font:inherit;padding:.5rem 1rem;color:var(--clr-background);background-color:var(--clr-text);border:1px solid var(--clr-text);border-radius:4px;transition:all var(--animation-duration) ease-in;cursor:pointer}button.svelte-4190dx:hover,button.svelte-4190dx:focus{opacity:.8}div.svelte-pfjui3{width:1.5rem;height:1.5rem}header.svelte-g11jc{width:100%;padding:1rem 2rem;display:flex;flex-direction:row;justify-content:space-between;align-items:center}div.svelte-g11jc{display:flex;flex-direction:row;justify-content:space-between;align-items:center;gap:.75rem}div.svelte-frixhr,form.svelte-frixhr{height:100%;width:100%;display:flex;flex-direction:row;justify-content:center;align-items:center}form.svelte-frixhr{gap:.75rem}input.svelte-frixhr{font:inherit;padding:.65rem 1rem;height:100%}.transitional.svelte-10tf4rn{transition:all var(--animation-duration) ease-in}.fade.svelte-10tf4rn{opacity:.33}div.svelte-1ln4cpg{width:100%;max-width:35vw;height:100%;display:flex;flex-direction:column;justify-content:center;align-items:center;animation:svelte-1ln4cpg-scaleup 1s forwards;animation-delay:.2s;opacity:0}svg.svelte-1ln4cpg{width:100%;height:100%}@keyframes svelte-1ln4cpg-scaleup{0%{transform:scale(.01);opacity:0}to{transform:scale(1);opacity:1}}#list.svelte-1ssghu3{width:min(100%,35vw);max-height:100%;display:flex;flex-direction:column;justify-content:center;align-items:center}ol.svelte-1ssghu3{width:100%;height:100%;display:flex;flex-direction:column;justify-content:center;align-items:flex-start;flex-wrap:wrap;gap:.5rem;padding:0rem 1rem;overflow-y:hidden}li.svelte-1ssghu3{--clr:var(--clr-text);width:100%;min-height:3.5rem;display:flex;flex-direction:row;justify-content:space-between;align-items:center;color:var(--clr-text);background-color:transparent;border:1px solid var(--clr-text);padding:.5rem 1rem;border-radius:8px;transition:all var(--animation-duration) ease-in;position:relative;overflow:hidden}.highlighted.svelte-1ssghu3{color:var(--clr, --clr-text);border-color:var(--clr, --clr-text)}li.svelte-1ssghu3:before{content:"";position:absolute;top:0;left:-1px;width:6px;height:100%;background-color:var(--clr, --clr-text);z-index:1}li.svelte-1ssghu3:hover,li.svelte-1ssghu3:focus{color:var(--clr-background);background-color:var(--clr-text);outline:1px solid var(--clr, --clr-text);transform:scale(1.05);box-shadow:0 0 5px 1px var(--clr)}.fade.svelte-1ssghu3{opacity:.33}.bytes.svelte-1ssghu3{opacity:.5}@media (max-width: 768px){#list.svelte-1ssghu3{max-width:95%}ol.svelte-1ssghu3{padding:.5rem}}section.svelte-3i41eo{display:flex;flex-direction:row;justify-content:center;align-items:center;width:100%;height:60vh;gap:1rem}@media (max-width: 768px){section.svelte-3i41eo{flex-direction:column;justify-content:flex-start}}footer.svelte-151q23h{padding:1rem 2rem}*,*:before,*:after{box-sizing:border-box;margin:0;padding:0}:root{--clr-backdrop:rgb(224, 224, 224);--clr-background:whitesmoke;--clr-text:#353535;--clr-shadow:rgba(0, 0, 0, .3);--shadow:0px 0px 10px 3px var(--clr-shadow);--animation-duration:.15s}@media (prefers-reduced-motion){:root{--animation-duration:1ms}}html,body{min-height:100vh;height:auto;width:100vw;margin:0 auto}body{display:flex;flex-direction:column;justify-content:center;align-items:center;font-family:Share Tech Mono,monospace,-apple-system,BlinkMacSystemFont,Segoe UI,Roboto,Oxygen,Ubuntu,Cantarell,Open Sans,Helvetica Neue,sans-serif;background-color:var(--clr-backdrop);color:var(--clr-text)}#app{min-height:100vh;height:auto;display:flex;flex-direction:column;align-items:center;justify-content:space-between}main.svelte-3q4qnh{width:85vw;display:flex;flex-direction:column;justify-content:center;align-items:center;flex:1;gap:2rem;margin:0 auto;padding:2rem;background-color:var(--clr-background);box-shadow:var(--shadow);border-radius:20px}@media (max-width: 768px){main.svelte-3q4qnh{min-height:100vh;justify-content:flex-start;padding:1.5rem .5rem}}

diff --git a/index.html b/index.html
@@ -14,10 +14,10 @@
   <link rel="manifest" href="manifest.json" />
 
   <title>Languages</title>
-  <script type="module" crossorigin src="/Languages/assets/index.89c2d050.js"></script>
+  <script type="module" crossorigin src="/Languages/assets/index.dca843ab.js"></script>
   <link rel="modulepreload" href="/Languages/assets/vendor.5a57d869.js">
   <link rel="stylesheet" href="/Languages/assets/vendor.86f8c920.css">
-  <link rel="stylesheet" href="/Languages/assets/index.d539677c.css">
+  <link rel="stylesheet" href="/Languages/assets/index.98fed811.css">
 </head>
 
 <body>
